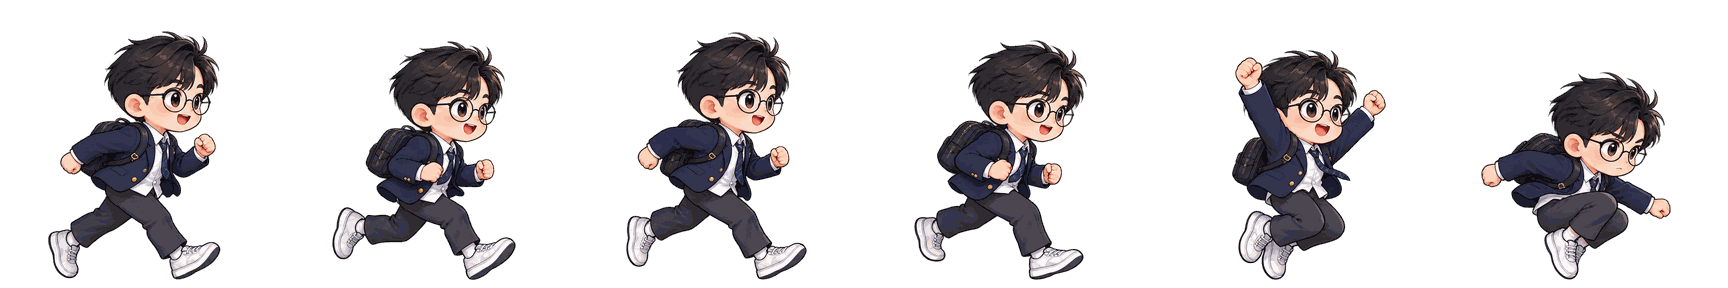
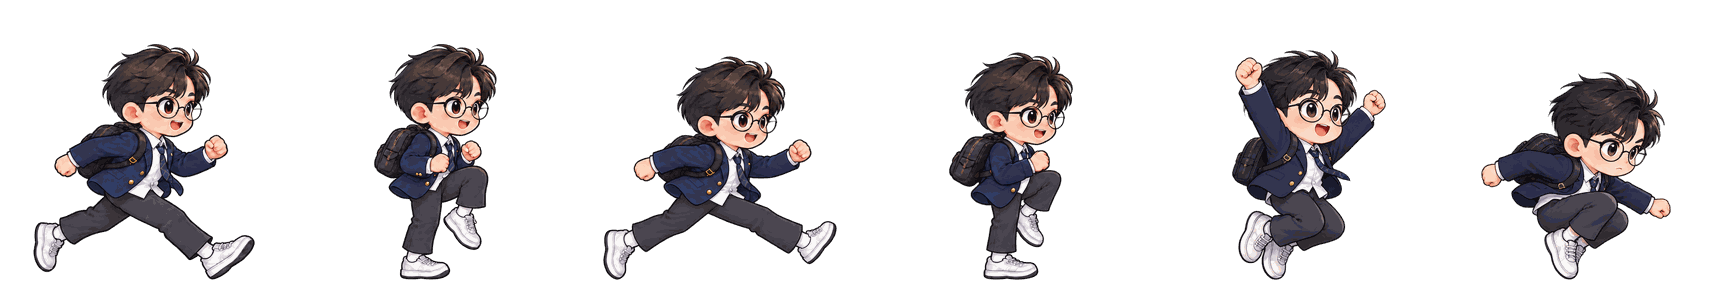
[METIS-3 작업 359] 여학생·남학생 달리기 4동작 교체 (다리가 고정돼 보이는 문제)
- 새 달리기 그림 2장(여학생·남학생, 벌림 → 듦 → 벌림 → 듦)으로 시트 0~3번 칸만 교체. 점프 2동작·펭귄·배경·장애물·아이템·규칙은 그대로(점프 칸 픽셀 동일 확인)
- scripts/spellrun_art_build.py 에 달리기 교체 단계 추가: 머리 크기 맞춤, 발끝 y 280, 얼굴 가로 맞춤, 358 팔레트 유지
- 시험: 이웃 동작 다리 모양 차이·발끝·머리 크기·얼굴 가로 위치
- sw.js CACHE_NAME v84, ?v=84

diff --git a/tests/spellrun_art.test.js b/tests/spellrun_art.test.js
@@ -74,3 +74,39 @@ test('스크립트를 다시 돌리면 같은 결과가 나온다(원본 그림 
   for (const k of KEYS) assert.equal(sha(path.join(tmp, REPORT[k].file)), sha(path.join(IMG, REPORT[k].file)), k + ' 결과가 같다');
   assert.deepEqual(JSON.parse(fs.readFileSync(rep, 'utf8')), REPORT);
 });
+
+// ---- 작업359: 여학생·남학생 달리기 4동작 교체(다리가 고정돼 보이던 문제) ----
+// 358 의 달리기 4동작은 모두 같은 도약 자세라 다리가 고정된 채 미끄러져 보였다. 벌림 → 듦 → 벌림 → 듦 이 되도록 새 그림으로 바꿨다. 이 시험은 같은 문제가 다시 생기지 않게 막는다.
+const RUN_KEYS = ['girl', 'boy'];
+
+test('달리기 4동작: 다리 모양이 이웃 동작끼리 크게 다르다(0↔1, 1↔2, 2↔3, 3↔0 모두 0.6 이상) — 모두 같은 자세로 돌아가는 것을 막는다', () => {
+  for (const k of RUN_KEYS) {
+    const d = REPORT[k].run.after.leg_diff;
+    for (const pair of ['0-1', '1-2', '2-3', '3-0']) assert.ok(d[pair] >= 0.6, `${k} 다리 차이 ${pair} = ${d[pair]}`);
+    assert.ok(d['0-2'] < d['0-1'] && d['1-3'] < d['1-2'], k + ' 같은 종류(0·2, 1·3)끼리는 이웃보다 비슷하다');
+  }
+});
+
+test('달리기 4동작: 발끝 기준선 280(차이 2px 이하)·몸 크기(머리 크기) 점프와 비슷·얼굴 가로 차이 6px 이하', () => {
+  for (const k of RUN_KEYS) {
+    const r = REPORT[k].run, a = r.after;
+    assert.ok(Math.max(...a.foot_y) - Math.min(...a.foot_y) <= 2, k + ' 발끝 차이'); assert.ok(a.foot_y.every(y => y === 280), k + ' 발끝 280');
+    assert.ok(Math.max(...a.face_x) - Math.min(...a.face_x) <= 6, k + ' 얼굴 가로 ' + a.face_x);
+    const jump = a.head[5];   // 점프 하강(점프 상승은 올린 팔이 머리카락을 가려 크기를 못 잼)
+    for (let i = 0; i < 4; i++) assert.ok(a.head[i] / jump >= 0.88 && a.head[i] / jump <= 1.12, `${k} ${i}번 칸 머리 크기 ${a.head[i]} (점프 ${jump})`);
+    assert.ok(Math.max(...a.head.slice(0, 4)) / Math.min(...a.head.slice(0, 4)) <= 1.1, k + ' 달리기 4동작끼리 머리 크기');
+    assert.ok(Math.max(...a.heights) <= 250, k + ' 달리기 동작 높이가 펭귄의 가장 큰 동작 이하');
+  }
+});
+
+test('달리기 4동작 수치가 결과 파일과 같다(보고만 믿지 않고 PNG 에서 다시 잼, Python 이 있을 때)', () => {
+  const py = ['python', 'py'].find(c => spawnSync(c, ['-c', 'import PIL, numpy'], { stdio: 'ignore' }).status === 0);
+  if (!py) return;
+  const code = 'import sys,json,importlib.util,numpy as np\nfrom PIL import Image\n' +
+    'sp=importlib.util.spec_from_file_location("b",sys.argv[1]);b=importlib.util.module_from_spec(sp);sp.loader.exec_module(b)\n' +
+    'print(json.dumps({k:b.run_measure(np.array(Image.open(sys.argv[2]+"/spellrun_"+k+"_sheet.png").convert("RGBA"))) for k in ["girl","boy"]}))';
+  const r = spawnSync(py, ['-I', '-c', code, path.join(ROOT, 'scripts', 'spellrun_art_build.py'), IMG], { encoding: 'utf8', maxBuffer: 1 << 26 });
+  assert.equal(r.status, 0, r.stderr);
+  const m = JSON.parse(r.stdout);
+  for (const k of RUN_KEYS) assert.deepEqual(m[k], REPORT[k].run.after, k + ' 다시 잰 수치');
+});

diff --git a/public/concept_map.html b/public/concept_map.html
@@ -299,19 +299,19 @@
 <script src="/js/common/appHeader.js"></script>
 <script>MetisAppHeader.inject();</script>
 <!-- 283-2: ?v= 값은 public/sw.js 의 CACHE_NAME(metis-v47) 숫자와 같게 두고 배포마다 함께 올린다(옛 캐시 JS가 새 HTML과 섞여 내비가 죽는 일을 막는다. tests/concept_map_cache.test.js 가 검사) -->
-<script src="/js/map/mapCore.js?v=83"></script>
-<script src="/js/cmap/mapGeometry.js?v=83"></script>
-<script src="/js/cmap/layoutOptimize.js?v=83"></script>
-<script src="/js/cmap/edgeRoute.js?v=83"></script>
-<script src="/js/cmap/pairPicker.js?v=83"></script>
-<script src="/js/cmap/markState.js?v=83"></script>
-<script src="/js/cmap/mapPdf.js?v=83"></script>
-<script src="/js/cmap/mapView.js?v=83"></script>
-<script src="/js/cmap/mapStart.js?v=83"></script>
-<script src="/js/cmap/narrateView.js?v=83"></script>
-<script src="/js/cmap/reviewView.js?v=83"></script>
-<script src="/js/cmap/micRecorder.js?v=83"></script>
-<script src="/js/cmap/answerView.js?v=83"></script>
+<script src="/js/map/mapCore.js?v=84"></script>
+<script src="/js/cmap/mapGeometry.js?v=84"></script>
+<script src="/js/cmap/layoutOptimize.js?v=84"></script>
+<script src="/js/cmap/edgeRoute.js?v=84"></script>
+<script src="/js/cmap/pairPicker.js?v=84"></script>
+<script src="/js/cmap/markState.js?v=84"></script>
+<script src="/js/cmap/mapPdf.js?v=84"></script>
+<script src="/js/cmap/mapView.js?v=84"></script>
+<script src="/js/cmap/mapStart.js?v=84"></script>
+<script src="/js/cmap/narrateView.js?v=84"></script>
+<script src="/js/cmap/reviewView.js?v=84"></script>
+<script src="/js/cmap/micRecorder.js?v=84"></script>
+<script src="/js/cmap/answerView.js?v=84"></script>
 
 <div id="loading" role="status"><p>불러오는 중…</p></div>
 

diff --git a/public/spelling_run.html b/public/spelling_run.html
@@ -276,8 +276,8 @@
 </main>
 
 <!-- ?v= 값은 public/sw.js 의 CACHE_NAME(metis-vN) 숫자와 같게 두고 배포마다 함께 올린다(tests/spellrun_cache.test.js 가 검사) -->
-<script src="/js/spellrun/logic.js?v=83"></script>
-<script src="/js/spellrun/stage_style.js?v=83"></script>
-<script src="/js/spellrun/game.js?v=83"></script>
+<script src="/js/spellrun/logic.js?v=84"></script>
+<script src="/js/spellrun/stage_style.js?v=84"></script>
+<script src="/js/spellrun/game.js?v=84"></script>
 </body>
 </html>

diff --git a/public/sw.js b/public/sw.js
@@ -1,4 +1,4 @@
-const CACHE_NAME = 'metis-v83';
+const CACHE_NAME = 'metis-v84';
 const STATIC_ASSETS = [
   '/',
   '/english_dictionary.html',

diff --git a/scripts/spellrun_art_build.py b/scripts/spellrun_art_build.py
@@ -1,5 +1,5 @@
 #!/usr/bin/env python
-# 작업358: 스펠링 런 그림 정리. 원본 그림 9장(reference/spellrun-art, git 무시)에서 게임용 결과물만 public/img/spellrun/ 에 만든다.
+# 작업358: 스펠링 런 그림 정리. 원본 그림 10장(작업359: 달리기 그림 2장 더)(reference/spellrun-art, git 무시)에서 게임용 결과물만 public/img/spellrun/ 에 만든다.
 # 사용: python scripts/spellrun_art_build.py <원본 폴더> [<출력 폴더> [<수치 보고 파일>]]   (출력 폴더 기본값 public/img/spellrun, 보고 파일 기본값 scripts/spellrun_art_report.json)
 # 같은 입력이면 같은 결과가 나온다(난수 없음). 필요한 것: Python 3, Pillow, numpy. 결과 수치는 scripts/spellrun_art_report.json 에 쓴다(시험이 읽는다).
 #
@@ -9,6 +9,7 @@
 #   spellrun_obstacles_sheet.png(1024x256, 칸 256, 흰 테두리 포함, 바닥선 FOOT_Y 237)
 #   items_sheet.png(아이템 4종 한 줄: 하트, 번개, 힌트 전구, 천사 날개와 고리. 칸 112, 겉보기 큰 변 104)
 #   spellrun_girl_sheet.png, spellrun_boy_sheet.png (1728x288, 칸 288, 6동작: 달리기 4 + 점프 상승 + 점프 하강, 발끝 y 280)
+#       작업359: 달리기 4동작(0~3번 칸)은 새 달리기 그림(girl_run, boy_run: 1536x1024, 2x2 격자, 칸 순서 = 벌림 A, 듦 A, 벌림 B, 듦 B)으로 바꾼다. 점프 2동작(4·5번 칸)은 358 그대로.
 import json
 import os
 import sys
@@ -28,6 +29,8 @@ SRC = {
     'girl': '네이비 체육 반바지 치비 러너 스프라이트 시트.png',
     'boy': '한국 고등학생 러너 6프레임 스프라이트-2.png',
     'items': '하트·번개·전구·천사 날개 파워업.png',
+    'girl_run': '치비 여학생 사이드뷰 달리기 4연속.png',   # 작업359: 달리기 4동작 교체용(점프는 girl 그림 그대로)
+    'boy_run': '달리는 소년의 두 포즈 스프라이트.png',
 }
 ALPHA_CUT = 8          # 불투명도 약 3% 이하는 0(빛 번짐·점 얼룩·테두리 색 잔상)
 SPECK_MIN = 400        # 이보다 작은 떨어진 조각(원본 px 면적)은 얼룩으로 보고 지운다
@@ -337,7 +340,7 @@ def build_obstacles(src, out_path):
     report['obstacles'] = {'file': os.path.basename(out_path), 'size': [sheet.shape[1], sheet.shape[0]], 'bytes': size, 'cell': OBST_CELL, 'foot_y': OBST_FOOT, 'border': B, 'scale': round(s, 4), 'objects': meas, 'specks_removed': removed}
 
 
-def build_character(src, out_path, key, ref_penguin_h):
+def build_character(src, out_path, key, ref_penguin_h, run_src=None):
     a, removed = remove_specks(clean_alpha(load(src)))
     lab, items = components_by_bbox(a, 600, 2)
     H, W = a.shape[:2]
@@ -385,13 +388,152 @@ def build_character(src, out_path, key, ref_penguin_h):
         if sx0 > 0 or sy0 > 0 or ww < w - sx0 or hh < h - sy0:
             clipped.append(i)
         sheet[dy0:dy0 + hh, i * CELL_P + dx0:i * CELL_P + dx0 + ww] = r[sy0:sy0 + hh, sx0:sx0 + ww]
-    size = save_png(sheet, out_path, 256)
+    if run_src:
+        ref_sheet = sheet.copy()                       # 358 에서 저장하던 6동작(바꾸기 전)
+        run_report = build_run_frames(run_src, sheet, key)
+        size = save_with_palette_of(sheet, ref_sheet, CELL_P * 4, out_path)
+    else:
+        run_report = None
+        size = save_png(sheet, out_path, 256)
     chk = np.array(Image.open(out_path).convert('RGBA'))
     for i in range(6):
         x0, y0, x1, y1 = bbox(chk[:, i * CELL_P:(i + 1) * CELL_P], 40)
         feet.append(y1)
+        heights[i] = y1 - y0                                   # 작업359: 달리기 칸을 바꾼 뒤의 실제 높이
     report[key] = {'file': os.path.basename(out_path), 'size': [sheet.shape[1], sheet.shape[0]], 'bytes': size, 'cell': CELL_P, 'scale': round(s, 4), 'frame_heights': heights, 'foot_y': feet, 'foot_spread': max(feet) - min(feet),
                    'clipped_frames': clipped, 'source_cross_grid': cut, 'specks_removed': removed}
+    if run_report:
+        report[key]['run'] = run_report
+        report[key]['run']['after'] = run_measure(chk)
+
+
+RUN_SKIN_SPLIT = 0.45   # 얼굴 살색 덩어리는 동작 위쪽 45%에서만 찾는다(다리·주먹과 섞이지 않게)
+LEG_FROM = 0.55         # 다리 영역: 동작 높이의 위에서 55% 아래 전부
+
+
+def skin_face(a):
+    """얼굴(살색 가장 큰 덩어리)의 가운데. 같은 그림 안에서만 비교한다(그림마다 살색 음영이 달라 그림 사이 크기 비교에는 쓰지 않는다)."""
+    r, g, b, al = [a[..., i].astype(int) for i in range(4)]
+    sk = (al > 200) & (r > 200) & (g > 140) & (g < 215) & (b > 100) & (b < 195) & (r > g + 15) & (g > b + 10)
+    ys, xs = np.nonzero(al > 40)
+    y0, y1 = ys.min(), ys.max()
+    sk[int(y0 + (y1 - y0) * RUN_SKIN_SPLIT):] = False
+    lab, n = label(sk, 2 if sk.size > 400000 else 1)
+    ar = np.bincount(lab.ravel(), minlength=n + 1)
+    ar[0] = 0
+    yy, xx = np.nonzero(lab == ar.argmax())
+    return float(xx.mean()), float(yy.mean())
+
+
+def head_size(a):
+    """머리 크기 = 머리카락(어두운 갈색) 가장 큰 덩어리 면적의 제곱근. 위쪽 절반에서만 찾는다. 그림 사이 비교에 쓴다."""
+    r, g, b, al = [a[..., i].astype(int) for i in range(4)]
+    m = (al > 200) & (r < 110) & (b <= r + 6) & (r >= g - 4) & (r + g + b < 330)
+    ys, xs = np.nonzero(al > 40)
+    y0, y1 = ys.min(), ys.max()
+    m[int(y0 + (y1 - y0) * 0.5):] = False
+    st = 2 if m.size > 400000 else 1
+    lab, n = label(m, st)
+    ar = np.bincount(lab.ravel(), minlength=n + 1)
+    ar[0] = 0
+    return float(np.sqrt(ar.max() * st * st))   # 줄여서 센 면적은 step^2 배
+
+
+def leg_mask(cell):
+    ys, xs = np.nonzero(cell[..., 3] > 40)
+    y0, y1 = ys.min(), ys.max() + 1
+    m = np.zeros(cell.shape[:2], bool)
+    ys0 = int(y0 + (y1 - y0) * LEG_FROM)
+    m[ys0:y1] = cell[ys0:y1, :, 3] > 128
+    return m
+
+
+def leg_diff(c1, c2):
+    """두 동작의 다리 영역 불투명 픽셀이 다른 정도 = 서로 다른 픽셀 수 / 합친 픽셀 수(0 = 같음, 1 = 완전히 다름)."""
+    m1, m2 = leg_mask(c1), leg_mask(c2)
+    return float((m1 ^ m2).sum() / max(1, (m1 | m2).sum()))
+
+
+def run_measure(sheet):
+    """시트(RGBA 배열)의 달리기 4동작 수치: 다리 차이(0↔1, 1↔2, 2↔3, 3↔0, 같은 종류 0↔2·1↔3), 머리 크기, 얼굴 가로, 발끝, 동작 높이."""
+    cells = [sheet[:, i * CELL_P:(i + 1) * CELL_P] for i in range(6)]
+    pairs = {'0-1': (0, 1), '1-2': (1, 2), '2-3': (2, 3), '3-0': (3, 0), '0-2': (0, 2), '1-3': (1, 3)}
+    out = {'leg_diff': {k: round(leg_diff(cells[i], cells[j]), 3) for k, (i, j) in pairs.items()}}
+    out['head'] = [round(head_size(c), 1) for c in cells]
+    out['face_x'] = [round(skin_face(c)[0], 1) for c in cells[:4]]
+    out['foot_y'] = [bbox(c, 40)[3] for c in cells[:4]]
+    out['heights'] = [bbox(c, 40)[3] - bbox(c, 40)[1] for c in cells[:4]]
+    return out
+
+
+def build_run_frames(run_src, sheet, key):
+    """작업359: 새 달리기 그림(2x2, 4동작)으로 sheet(점프 포함 6동작, 아직 저장 전)의 0~3번 칸을 바꾼다.
+    크기: 기존 시트에서 머리카락이 가려지지 않은 5동작(옛 달리기 4 + 점프 하강)의 머리 크기 평균에 새 4동작의 머리 크기 평균을 맞춘다(같은 배율 하나).
+    발끝: 가장 아래 불투명 픽셀(딛는 발)을 FOOT_Y 에. 앞뒤: 얼굴 가운데 가로를 네 동작 모두 같은 자리에."""
+    ref_cells = [sheet[:, i * CELL_P:(i + 1) * CELL_P] for i in range(6)]
+    ref_heads = [head_size(c) for c in ref_cells]
+    target = float(np.mean([ref_heads[i] for i in (0, 1, 2, 3, 5)]))
+    a, removed = remove_specks(clean_alpha(load(run_src)))
+    lab, items = components_by_bbox(a, 600, 2)
+    assert len(items) == 4, '달리기 동작 덩어리가 4개가 아님: %d' % len(items)
+    H, W = a.shape[:2]
+    quad = {}
+    for c in items:
+        q = int(((c['y0'] + c['y1']) / 2.0) // (H / 2.0)) * 2 + int(((c['x0'] + c['x1']) / 2.0) // (W / 2.0))
+        assert q not in quad, '같은 칸에 덩어리가 둘: ' + str(q)
+        quad[q] = c['id']
+    assert sorted(quad) == [0, 1, 2, 3], '달리기 칸이 4개가 아님'
+    crops = []
+    for q in range(4):
+        part = comp_pixels(a, lab, [quad[q]], 3)
+        x0, y0, x1, y1 = bbox(part, ALPHA_CUT)
+        crops.append(part[y0:y1, x0:x1])
+    src_heads = [head_size(c) for c in crops]
+    s = target / float(np.mean(src_heads))
+    frames = []
+    for c in crops:
+        h, w = max(1, int(round(c.shape[0] * s))), max(1, int(round(c.shape[1] * s)))
+        r = clean_alpha(resize_rgba(c, (w, h)))
+        frames.append((r, skin_face(r)[0]))
+    maxl = max(fx for r, fx in frames)
+    maxr = max(r.shape[1] - fx for r, fx in frames)
+    anchor = (CELL_P - (maxl + maxr)) / 2.0 + maxl        # 얼굴 가운데가 놓일 칸 안 가로 자리(네 동작의 왼쪽·오른쪽 여유가 같게)
+    sheet[:, :CELL_P * 4] = 0
+    for i, (r, fx) in enumerate(frames):
+        h, w = r.shape[:2]
+        left = int(round(anchor - fx))
+        top = FOOT_Y - bbox(r, 40)[3]                      # 가장 아래 불투명 픽셀(딛는 발)이 FOOT_Y
+        assert left >= 0 and left + w <= CELL_P and top >= 0, '달리기 동작이 칸 밖: %s %d' % (key, i)
+        sheet[top:top + h, i * CELL_P + left:i * CELL_P + left + w] = r
+    return {'source': os.path.basename(run_src), 'scale': round(s, 4), 'head_target': round(target, 2), 'head_ref': [round(x, 1) for x in ref_heads],
+            'head_source': [round(x, 1) for x in src_heads], 'face_anchor_x': round(anchor, 1), 'specks_removed': removed}
+
+
+def save_with_palette_of(a, ref, split, path):
+    """작업359: 점프 2동작(가로 split 이후)의 픽셀이 358 결과와 한 픽셀도 달라지지 않게, 팔레트는 358 과 같은 방식으로 ref(바꾸기 전 시트)에서 만든다.
+    split 앞(새 달리기 4동작)은 같은 캐릭터의 같은 색들이라 그 팔레트에서 가장 가까운 색(디더링 없음)으로 바꾼다."""
+    q = to_img(ref).quantize(colors=256, method=Image.Quantize.FASTOCTREE, dither=Image.Dither.NONE)
+    pal = q.getpalette('RGBA')
+    for i in range(0, len(pal), 4):
+        if pal[i + 3] <= ALPHA_CUT:
+            pal[i:i + 4] = [0, 0, 0, 0]
+    q.putpalette(pal, 'RGBA')
+    idx = np.array(q)
+    pa = np.array(pal, np.int32).reshape(-1, 4)
+    n = len(pa)
+    trans = int(np.nonzero(pa[:, 3] == 0)[0][0])
+    run = a[:, :split].reshape(-1, 4).astype(np.int32)
+    out = np.empty(len(run), np.uint8)
+    for s0 in range(0, len(run), 20000):
+        chunk = run[s0:s0 + 20000]
+        d = ((chunk[:, None, :] - pa[None, :n, :]) ** 2).sum(2)
+        out[s0:s0 + 20000] = d.argmin(1)
+    out[run[:, 3] <= ALPHA_CUT] = trans
+    idx[:, :split] = out.reshape(a.shape[0], split)
+    im = Image.fromarray(idx, 'P')
+    im.putpalette(pal, 'RGBA')
+    im.save(path, optimize=True)
+    return os.path.getsize(path)
 
 
 ITEM_CELL, ITEM_MAX = 112, 104
@@ -456,8 +598,8 @@ def main():
     build_layer(p('boss_near'), o('bg_boss_near.png'), 'boss_near')
     build_obstacles(p('obstacles'), o('spellrun_obstacles_sheet.png'))
     build_items(p('items'), o('items_sheet.png'))
-    build_character(p('girl'), o('spellrun_girl_sheet.png'), 'girl', ref)
-    build_character(p('boy'), o('spellrun_boy_sheet.png'), 'boy', ref)
+    build_character(p('girl'), o('spellrun_girl_sheet.png'), 'girl', ref, p('girl_run'))
+    build_character(p('boy'), o('spellrun_boy_sheet.png'), 'boy', ref, p('boy_run'))
     # 투명 잔여(불투명도 1~8) 확인
     total = 0
     for k, v in report.items():
